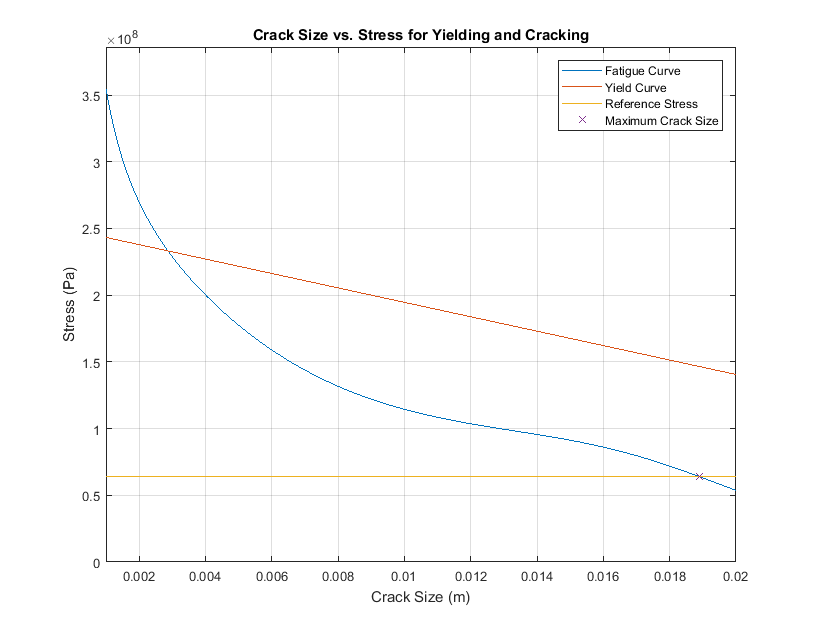
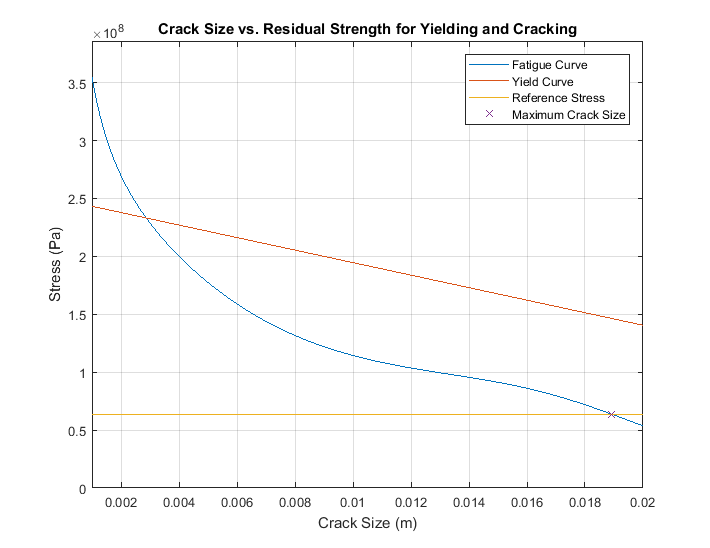
Updated to call Graph Residual Stress

diff --git a/AAE352_Project2_Group11.m b/AAE352_Project2_Group11.m
@@ -66,7 +66,7 @@ plot(acr_calc,sigma_ref,'x'); %Verify max crack size on graph
 fprintf('Maximum Crack Size: %.4f mm\n', acr_calc * 1e3);
 
 %% Section 5: Format Graph
-title('Crack Size vs. Stress for Yielding and Cracking');
+title('Crack Size vs. Residual Strength for Yielding and Cracking');
 ylim([0, yield_stress]);
 xlim([1e-3, .02]);
 legend('Fatigue Curve','Yield Curve','Reference Stress','Maximum Crack Size');
